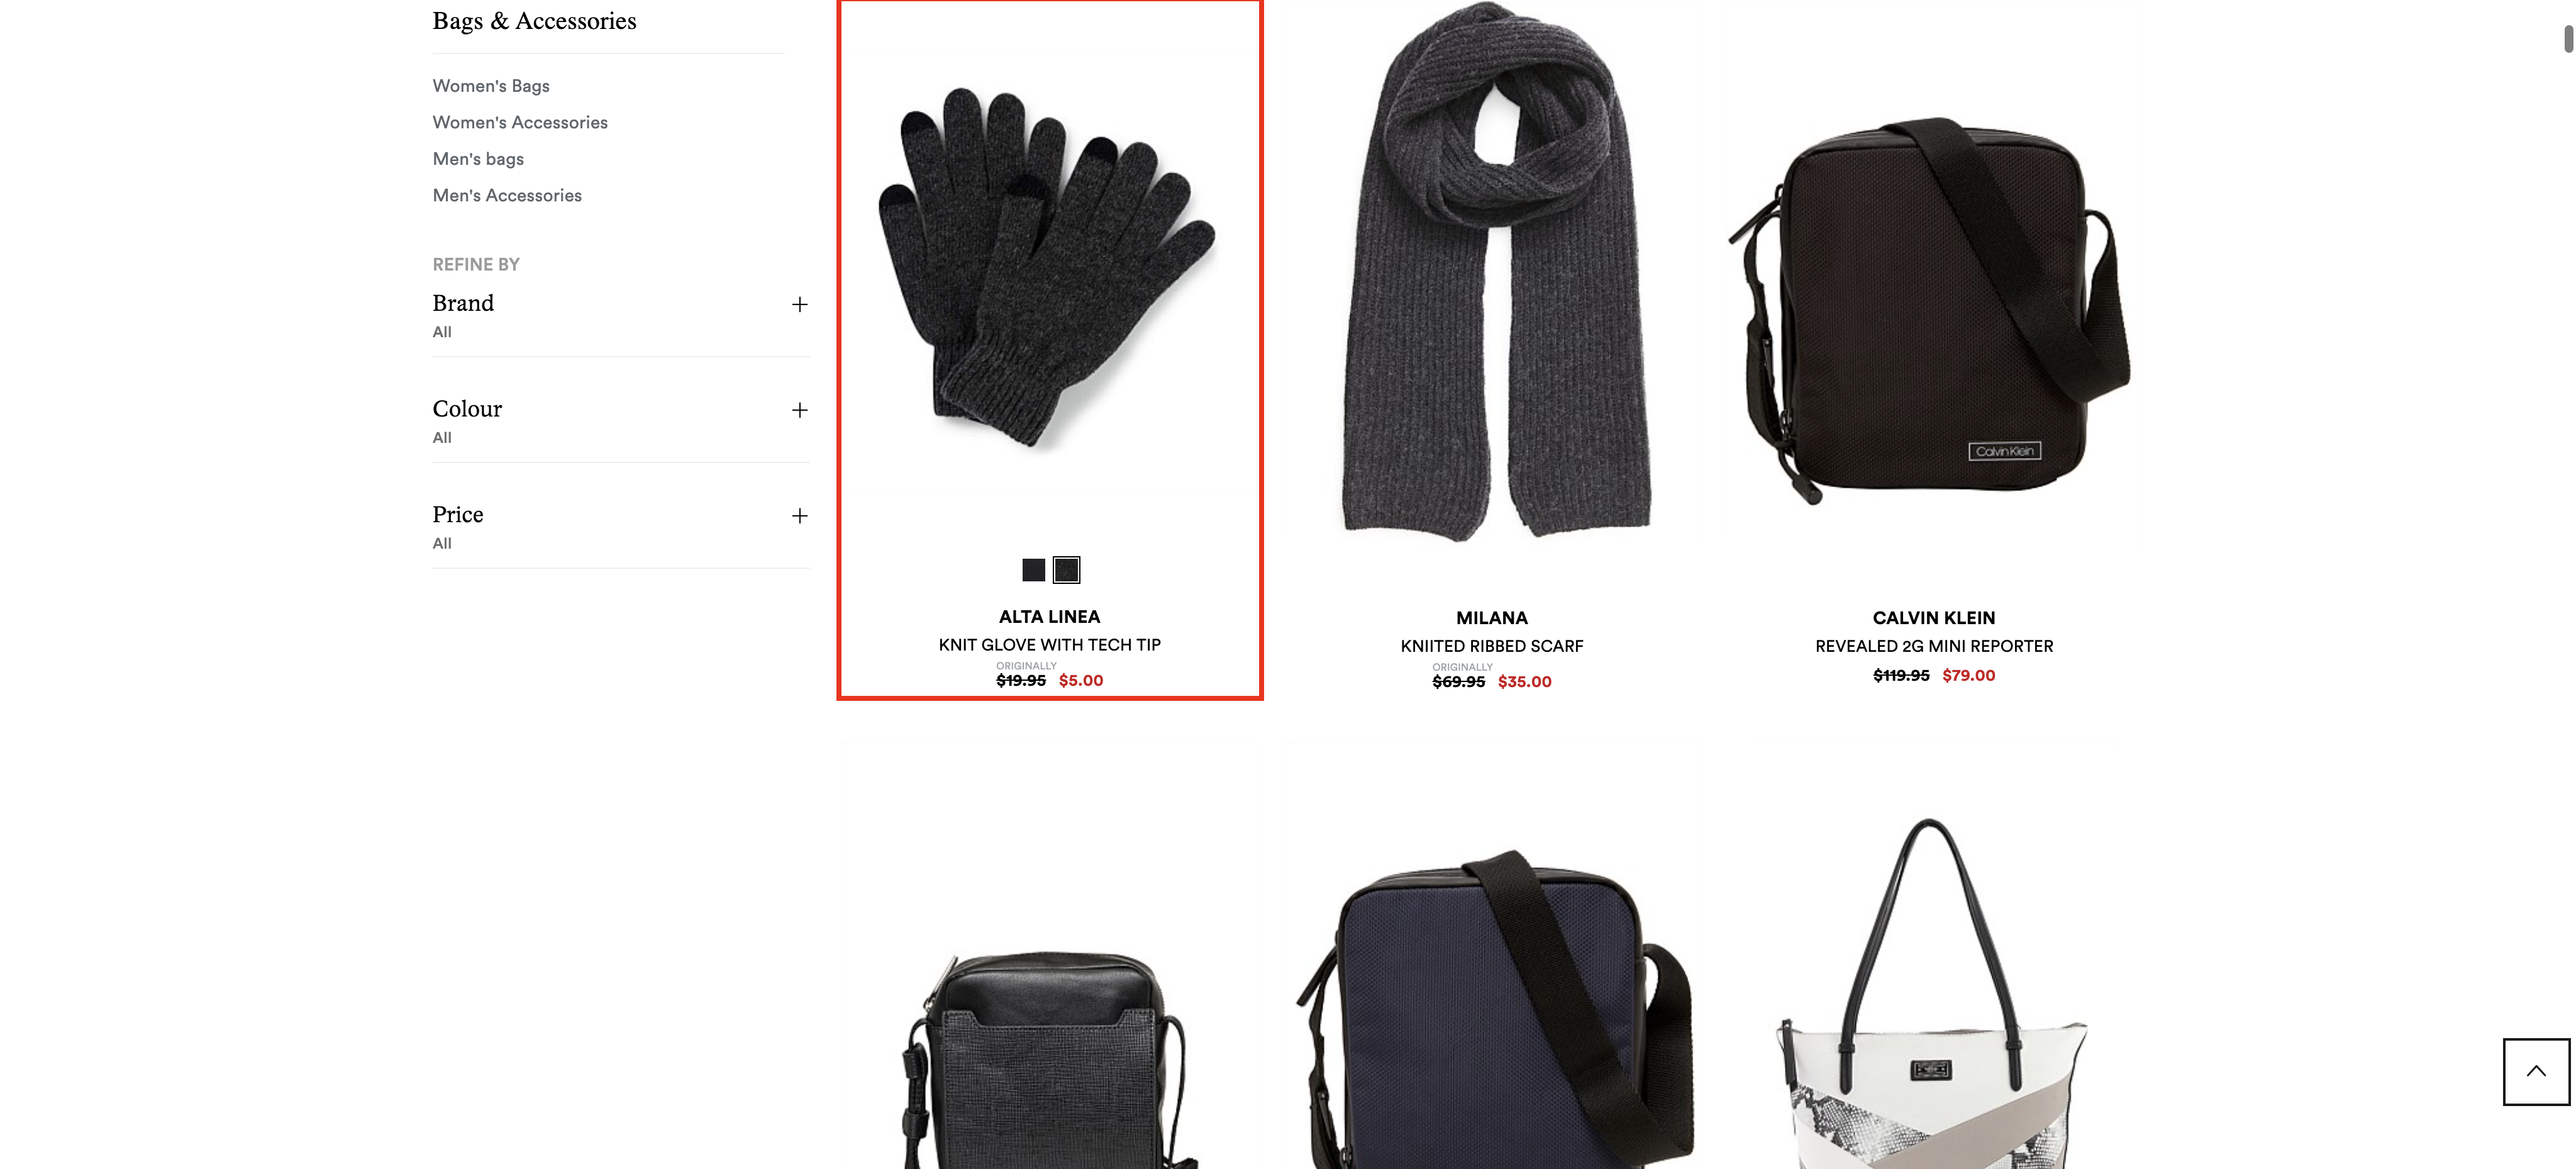
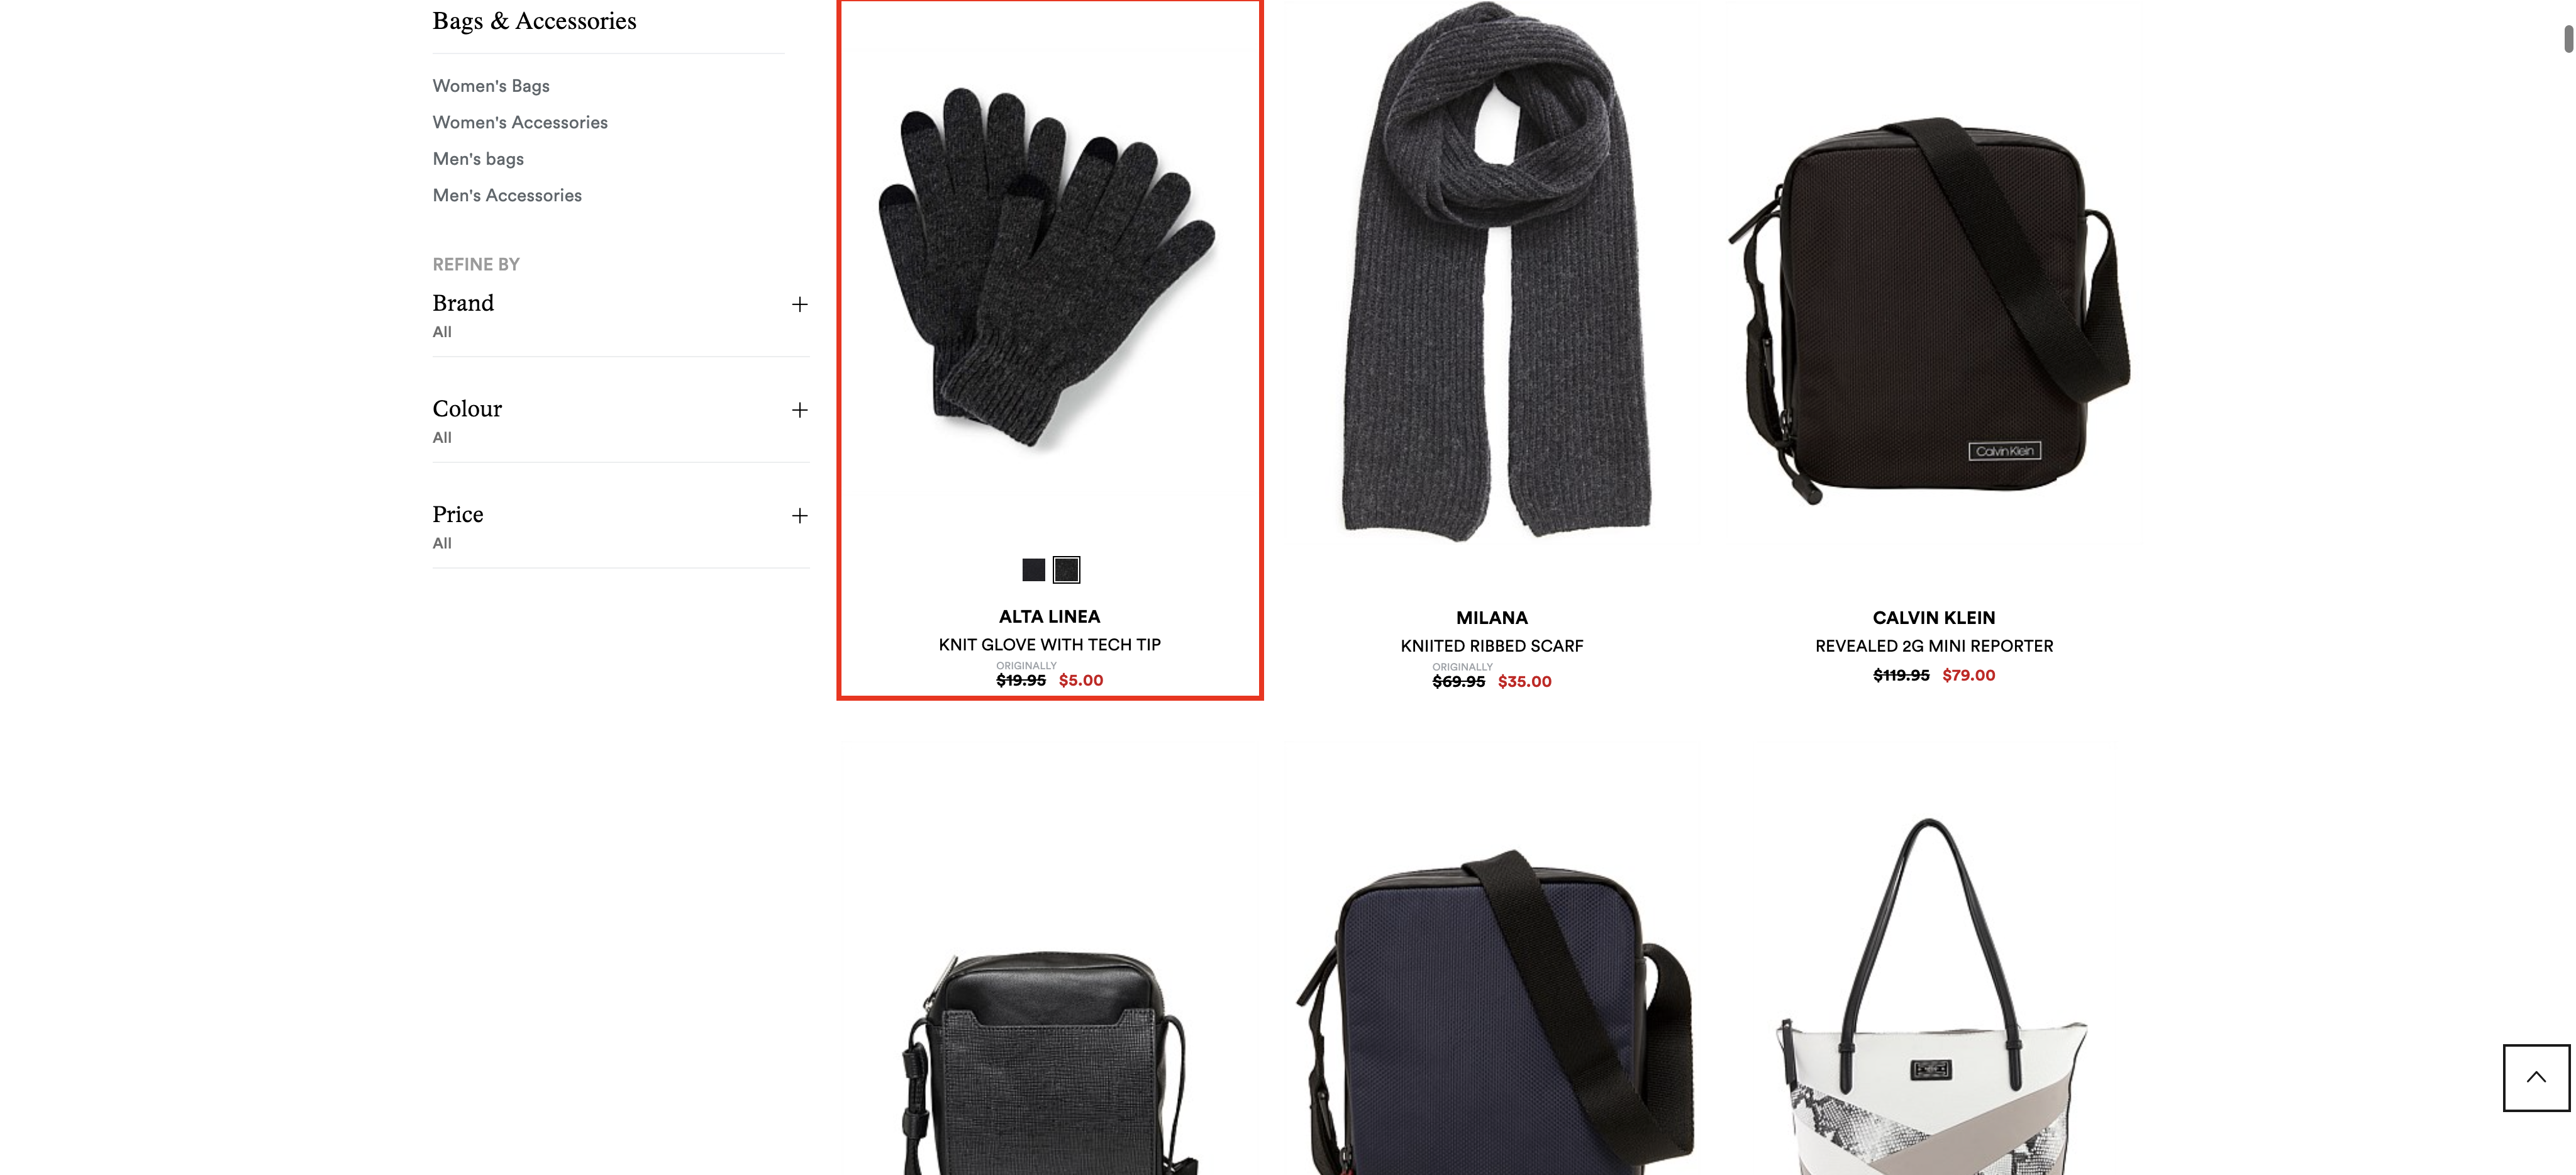
Screenshots added

diff --git a/test/pageobjects/sale.page.js b/test/pageobjects/sale.page.js
@@ -4,10 +4,8 @@ const fs = require('fs');
 
 class SalePage extends Page {
     get loadMoreBtn() {return $('a[class="btn load-products loading-button externalLink"]')}
-    get loadCompletedBtn() {return $('a.progress-completed')}
     get noMoreResults() {return $('a.btn.load-products.loading-button.externalLink.disabled')}
     get items() {return $$('div.item')}
-    get productLoaderButton() {return $('div.product-loader-button a')}
     get backTopButton() {return $('div#back-top')}
 
     loadAllProducts(category) {
@@ -30,25 +28,25 @@ class SalePage extends Page {
 
     calculateDiscount() {
 
-        let priceNow, priceWas, itemBrand, itemName, name, filePath, percent, discount, discountRate, pricingHtml, offerText;
+        let priceNow, priceWas, itemBrand, itemName, name, filePath, percent, discount, discountRate, pricingHtml, offerText, itemDetail;
         let itemsCalculated = 0;
         let itemCounts = this.items.length;
 
         this.items.forEach(item => {
             itemsCalculated++;
-            if (item.getAttribute('class') == 'item type-0 isUpdated') {
+            if (item.getAttribute('class').startsWith('item')) {
                 pricingHtml = item.$('div.pricing').getHTML();
                 if (pricingHtml.includes('was')) {
                     priceWas = this.getNumber(item.$('p.price.was span.price-display').getText());
                     priceNow = this.getNumber(item.$('p.price.now span.price-display').getText());
-                    if (item.$('div.item-detail').getText().includes('SAVE')) {
+                    itemDetail = item.$('div.item-detail').getText();
+                    if (itemDetail.includes('SAVE') && itemDetail.includes('%')) {
                         discount = (item.$('p.offer').getText().split(' '))[1];
                         discountRate = discount.slice(0,2);
                         priceNow = priceNow - (priceNow * discountRate/100);
                     }
-                    if (item.$('div.item-detail').getText().includes('EXTRA')) {
+                    if (itemDetail.includes('EXTRA') && itemDetail.includes('%')) {
                         offerText = item.$('p.offer').getText();
-                        console.log(offerText);
                         discount = (item.$('p.offer').getText().split(' '))[1];
                         discountRate = discount.slice(0,2);
                         priceNow = priceNow - (priceNow * discountRate/100);
@@ -105,14 +103,6 @@ class SalePage extends Page {
 
     getNumber(text) {
         return Number(text.slice(1).split(',').join(''));
-    }
-
-    logSaleItems(category) {
-        // console.log('\n=====>>>' + category + ' sale list between 60%-70%:');
-        // for (let i=0; i<saleRange1.length; i++) {
-        //     console.log('=====>>> ' + i + ' - ' + saleRange1[i]);
-        // }
-        console.log('Number of Items in ' + category + ' =====>>> ' + itemCounts) + '\n';
     }
 }
 